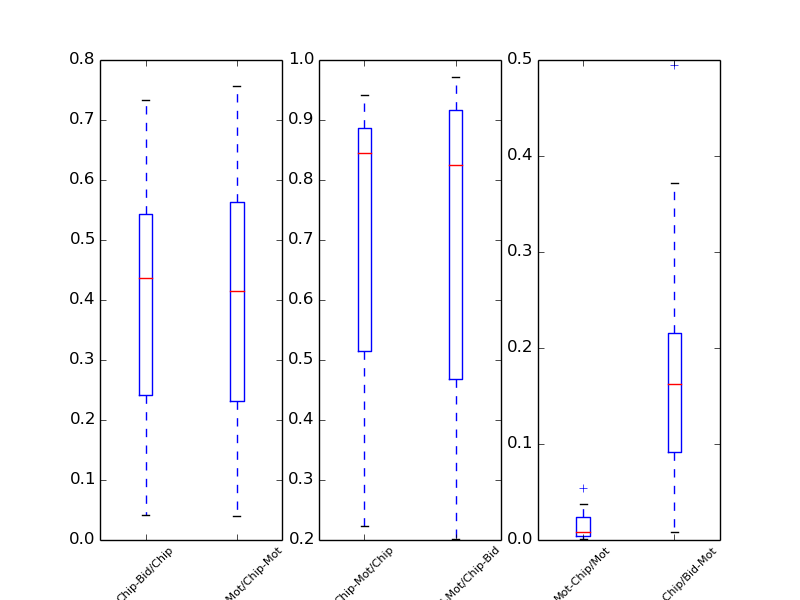
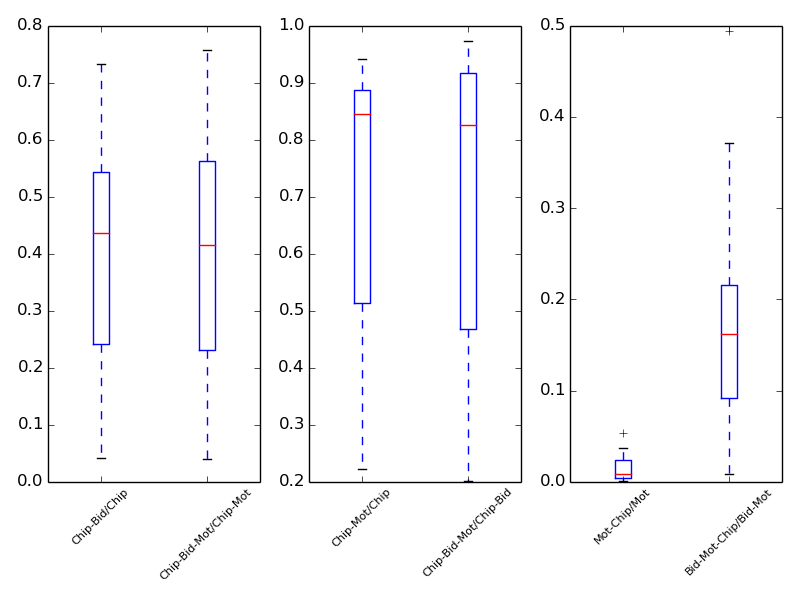
updates

diff --git a/src/VennGeneratorv2.py b/src/VennGeneratorv2.py
@@ -16,6 +16,7 @@ def run(bidirfile, chipfile, fimofile, outdir):
     os.system("bedtools intersect -a " + fimofile + " -b " + bidirfile + " -c > " + outdir + "/fimobidirintersect.bed")
     os.system("bedtools intersect -a " + outdir + "/chipbidirintersect.bed" + " -b " + fimofile + " -c > " + outdir + "/chipbidirfimointersect.bed")
     os.system("bedtools intersect -a " + outdir + "/bidirfimointersect.bed" + " -b " + chipfile + " -c > " + outdir + "/bidirfimochipintersect.bed")
+    os.system("bedtools intersect -a " + outdir + "/fimochipintersect.bed" + " -b " + bidirfile + " -c > " + outdir + "/fimochipbidirintersect.bed")
     
     chiptot = 0
     fimotot = 0
@@ -28,6 +29,14 @@ def run(bidirfile, chipfile, fimofile, outdir):
     fimobidir = 0
     chipbidirfimo = 0
     bidirfimochip = 0
+    fimochipbidir = 0
+    
+    with open(outdir + "/fimochipbidirintersect.bed") as F0:
+        for line in F0:
+            val1 = int(line.strip().split()[-1])
+            val2 = int(line.strip().split()[-2])
+            if val1 != 0 and val2 != 0:
+                fimochipbidir += 1
     
     with open(outdir + "/bidirfimochipintersect.bed") as F0:
         for line in F0:
@@ -82,7 +91,7 @@ def run(bidirfile, chipfile, fimofile, outdir):
     
     print "chipfile:\tchiptotal\tbidirtotal\tfimototal\tchipbidir\tchipfimo\tbidirchip\tbidirfimo\tfimochip\tfimobidir\tchipbidirfimo"
     print chipfile,chiptot,bidirtot,fimotot,chipbidir,chipfimo,bidirchip,bidirfimo,fimochip,fimobidir,chipbidirfimo
-    return chiptot, chipbidir, chipfimo, chipbidirfimo, bidirfimo, bidirfimochip, fimochip, fimotot
+    return chiptot, chipbidir, chipfimo, chipbidirfimo, bidirfimo, bidirfimochip, fimochip, fimotot, fimochipbidir,bidirchip, bidirtot
     
 def fix_database(directory):
     for TF in os.listdir(directory):
@@ -104,7 +113,7 @@ if __name__ == "__main__":
     
     list1 = [[],[]]
     list2 = [[],[]]
-    list3 = [[],[]]
+    list3 = [[],[],[]]
     for TF in os.listdir(chipdir):
         if os.path.exists(chipdir + '/' + TF + '/peak_files'):
             print TF
@@ -114,7 +123,7 @@ if __name__ == "__main__":
                     if TF == fimoTF.split('_')[0]:
                         print fimoTF
                         fimofile = fimodir + '/' + fimoTF + '/fimo.bed'
-                        chiptot, chipbidir, chipfimo, chipbidirfimo,bidirfimo,bidirfimochip,fimochip,fimotot = run(bidirfile,chipfile,fimofile,chipdir + '/' + TF)
+                        chiptot, chipbidir, chipfimo, chipbidirfimo,bidirfimo,bidirfimochip,fimochip,fimotot,fimochipbidir,bidirchip, bidirtot = run(bidirfile,chipfile,fimofile,chipdir + '/' + TF)
                         chiptot = float(chiptot)
                         chipbidir = float(chipbidir)
                         chipfimo = float(chipfimo)
@@ -123,12 +132,16 @@ if __name__ == "__main__":
                         bidirfimochip = float(bidirfimochip)
                         fimochip = float(fimochip)
                         fimotot = float(fimotot)
+                        fimochipbidir = float(fimochipbidir)
+                        bidirchip = float(bidirchip)
+                        bidirtot = float(bidirtot)
                         list1[0].append(chipbidir/chiptot)
                         list1[1].append(chipbidirfimo/chipfimo)
                         list2[0].append(chipfimo/chiptot)
                         list2[1].append(chipbidirfimo/chipbidir)
                         list3[0].append(fimochip/fimotot)
-                        list3[1].append(bidirfimochip/bidirfimo)
+                        list3[1].append(bidirchip/bidirtot)
+                        list3[2].append(fimochipbidir/fimochip)
                         
     print list1
     F = plt.figure()
@@ -140,7 +153,7 @@ if __name__ == "__main__":
     ax2.boxplot(list2)
     ax2.set_xticklabels(['Chip-Mot/Chip', 'Chip-Bid-Mot/Chip-Bid'],rotation = 45, fontsize=8)
     ax3.boxplot(list3)
-    ax3.set_xticklabels(['Mot-Chip/Mot','Bid-Mot-Chip/Bid-Mot'],rotation = 45, fontsize=8)
+    ax3.set_xticklabels(['Mot-Chip/Mot','Bid-Chip/Bid','Mot-Chip-Bidir/Mot-Chip'],rotation = 45, fontsize=8)
     #ax = plt.axes()
     #plt.boxplot(list1)
     #title = bidirfile.split('/')[-1]
